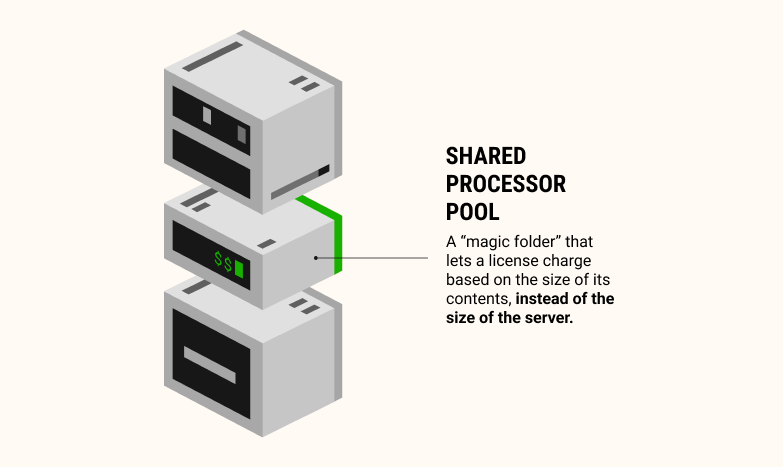
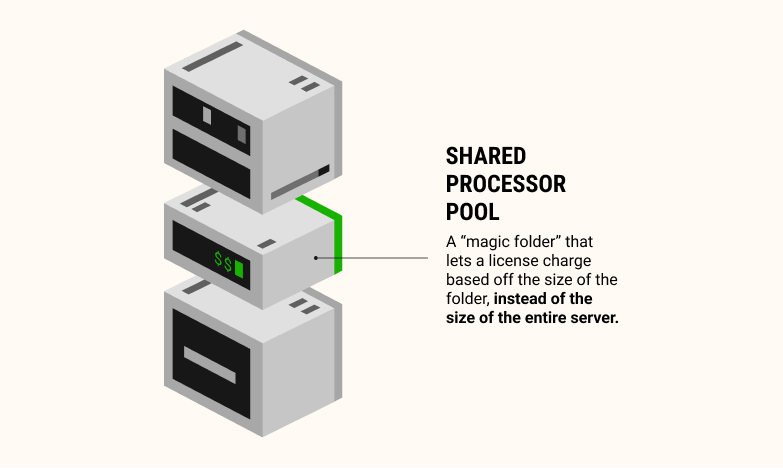
Fix imaging

Changed region(s): [[0.5517, 0.5684, 0.7969, 0.688]]

diff --git a/src/pages/Project/Pools/index.js b/src/pages/Project/Pools/index.js
@@ -140,7 +140,7 @@ const Pools = ({}) => {
             Solution:
           </Text>
           <Text paddingBottom={lineBreakPadding}>
-            We worked with dev to implement a magic “folder” that when wrapped around expensive assets, reduces the cost of licenses by up to 90%.
+            We worked with dev to bring a &quot;magic folder&quot; to the cloud, that when wrapped around licensed assets, reduces the cost of licenses by up to 90%.
           </Text>
         </GridItem>
         <SectionBreak />
@@ -156,9 +156,7 @@ const Pools = ({}) => {
             src={SPPExplanationDiagram}
             paddingBottom={subSectionBreakPadding}
           />
-          <Text
-            paddingBottom={lineBreakPadding}
-          >
+          <Text paddingBottom={lineBreakPadding}>
             “IBM Power” is a family of server computers that IBM has traditionally sold
             directly to consumers.
             The overarching goal of our cloud platform, Power Virtual Server,
@@ -166,8 +164,12 @@ const Pools = ({}) => {
             organization&apos;s user retention and profit long term.
           </Text>
 
-          <Text>
-            The dev team created a feature that reduces licensing costs by allowed users to
+          <Text paddingBottom={lineBreakPadding}>
+            Licenses typically charge based off of the size of the server they&apos;re applied to. This is especially
+            unfortunate in the cloud, where users rent very small portions of very large servers.
+          </Text>
+          <Text paddingBottom={lineBreakPadding}>
+            In response, IBM created a feature that reduces licensing costs by allowed users to
             create a &quot;folder&quot; from a section of a larger computer and pay for licensing on
             just this portion, instead of the entire computer.
             {' '}
@@ -175,6 +177,10 @@ const Pools = ({}) => {
               The folder is what we call a “shared processor pool”
               and comes with a ton of constraints for its usage and creation.
             </strong>
+          </Text>
+          <Text paddingBottom={lineBreakPadding}>
+            However, even though it makes the most sense for cloud usage, it was only available
+            for Power servers off of the cloud.
           </Text>
         </GridItem>
         <GridItem
@@ -194,14 +200,14 @@ const Pools = ({}) => {
             id="licensing-costs-caption"
             paddingBottom={subSectionBreakPadding}
           >
-            Main screens users who own on-premise Power systems use to configure shared processor pools.
+            What SPP looks like off of the cloud: the main screens users use to configure shared processor pools.
           </Text>
           <Text
             paddingBottom={lineBreakPadding}
           >
-            Understanding how the shared processor pools worked is relatively straightforward for users. However,
-            setting up real-life applications requiring multiple virtual machines can be very complex, and baking
-            their requirements into shared processor pools could make things confusing.
+            Understanding how shared processor pools worked was relatively straightforward for users. However,
+            {' '}
+            <strong>setting up applications when on the cloud is very different from when off of the cloud.</strong>
           </Text>
           <Text
             paddingBottom={lineBreakPadding}
@@ -214,7 +220,9 @@ const Pools = ({}) => {
             paddingBottom={lineBreakPadding}
           >
             Virtual machines (VMs) and shared processor pools (SPPs) must also exist somewhere, and as a result
-            have two big placement-related constraints that make their creation and usage unintuitive:
+            have
+            {' '}
+            <strong>two big location-related constraints that make their creation and usage unintuitive:</strong>
           </Text>
           <OrderedList
             paddingBottom={lineBreakPadding}
@@ -224,22 +232,26 @@ const Pools = ({}) => {
               {' '}
               <strong>must</strong>
               {' '}
-              all be on the same Power server for them to use the same “fenced off” portion of a server.
+              all be placed on the same physical server for them to use the same portion of the server.
             </ListItem>
             <ListItem>
-              Placement requirements unrelated to SPP exist. Sometimes, VMs
+              Placement location requirements unrelated to SPP also exist. Sometimes, VMs
               {' '}
               <strong>must</strong>
               {' '}
-              be on the same server. Sometimes, VMs must be on different servers.
+              be on the same server. Sometimes, VMs
+              {' '}
+              <strong>must</strong>
+              {' '}
+              be on different servers.
             </ListItem>
           </OrderedList>
           <Text
             paddingBottom={lineBreakPadding}
           >
             As you can imagine, when these requirements intertwine things get complicated. For example, if the user wants
-            to make a backup VM in case the host server of the main VM dies, the backup can’t be on the same host - or that
-            would defeat the point. However, it needs to run the same software, and thus needs the same license...
+            to make a backup VM in case the host server of the main VM dies, the backup can&apos;t be on the same host - or that
+            would defeat the point. However, it needs to run the same software, and thus needs the same license.
           </Text>
         </GridItem>
         <GridItem

diff --git a/src/App.scss b/src/App.scss
@@ -36,6 +36,15 @@ body {
     font-size: 16px;
 }
 
+.project-page {
+    p {
+        width: 80%;
+    }    
+    li {
+        width: 80%;
+    }
+}
+
 .project-title {
     color: #FF8A00 !important;
 
@@ -96,7 +105,6 @@ h6 {
 
 p {
     text-align: left !important;
-    width: 80%;
 }
 
 ol {
